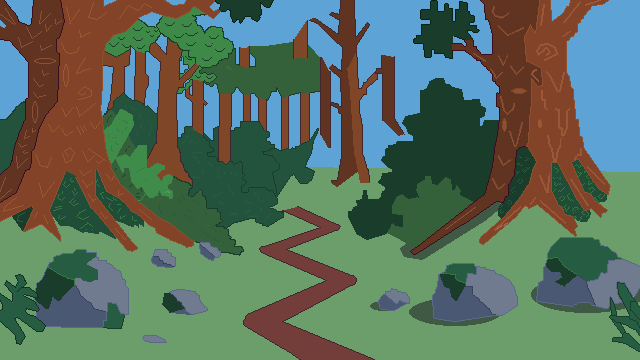
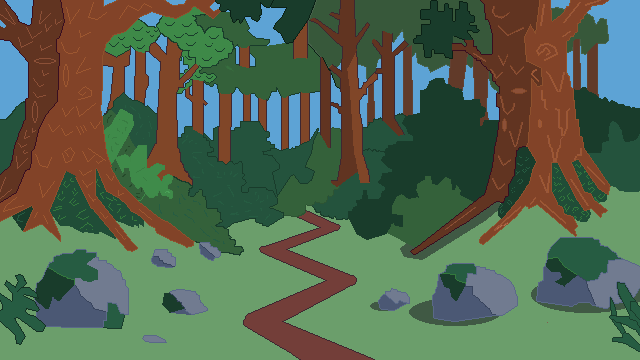
set up accept quest btn

Changed region(s): [[0.3125, 0.0, 0.7812, 0.6111], [0.875, 0.0306, 1.0, 0.55], [0.8438, 0.0, 0.875, 0.0611]]

diff --git a/src/components/QuestDescription.tsx b/src/components/QuestDescription.tsx
@@ -19,7 +19,6 @@ export default function QuestDescription({
   npcsName: string;
   quest: Quest;
 }) {
-  console.log("Rendering QuestDescription with quest:", quest);
   return (
     <Dialog open={isOpen} onOpenChange={onOpenChange}>
       <DialogContent
@@ -65,7 +64,7 @@ export default function QuestDescription({
           </div>
         </DialogHeader>
 
-        <ScrollArea style={{ height: "60vh" }}>
+        <ScrollArea style={{ height: "95vh" }}>
           <div
             style={{
               padding: "10px 14px 20px",
@@ -223,6 +222,33 @@ export default function QuestDescription({
             </div>
           </div>
         </ScrollArea>
+        <div className="flex h-16">
+          <button
+            style={{
+              display: "flex",
+              alignItems: "center",
+              justifyContent: "center",
+              gap: 6,
+              padding: "10px 12px",
+              background: "rgba(5,150,105,0.07)",
+              border: `1px solid rgba(52,211,153,0.25)`,
+              borderRadius: 6,
+              color: "#6EE7B7",
+              fontSize: 12,
+              fontFamily: fonts.display,
+              fontWeight: 600,
+              letterSpacing: "0.05em",
+              cursor: "pointer",
+              transition: "background 0.15s, border-color 0.15s",
+              width: "100%",
+              opacity: 1,
+              userSelect: "none",
+              margin: "8px",
+            }}
+          >
+            <span>Accept Quest</span>
+          </button>
+        </div>
       </DialogContent>
     </Dialog>
   );